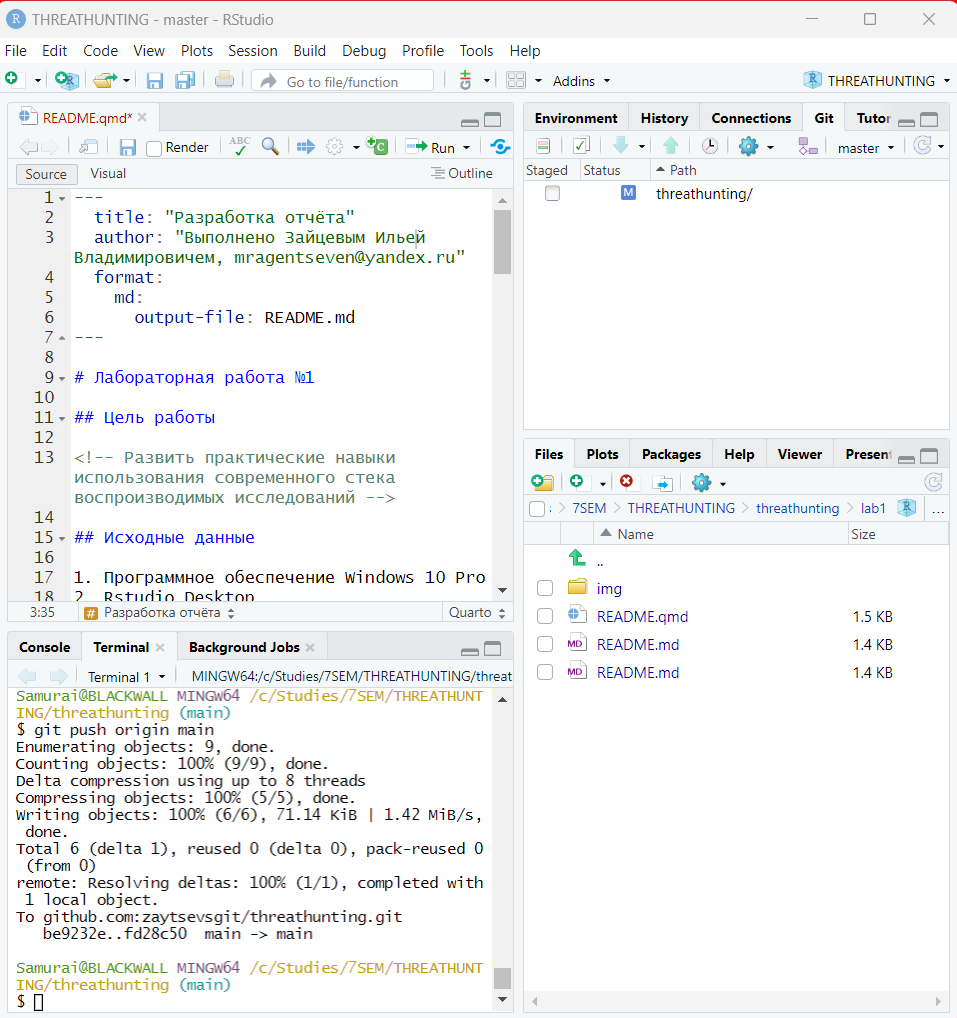
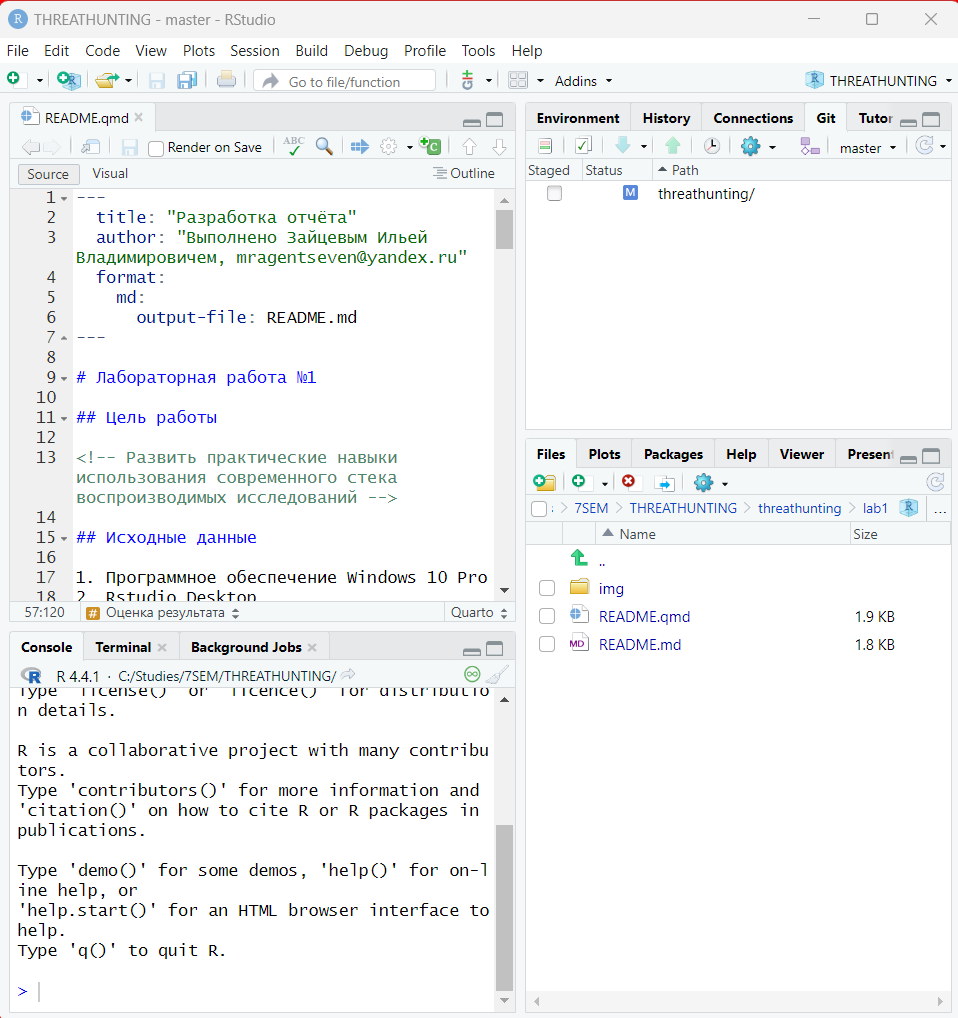
fifth

diff --git a/lab1/README.md b/lab1/README.md
@@ -1,5 +1,5 @@
 # Разработка отчёта
-Выполнено Зайцевым Ильёй Владимировичем, mragentseven@yandex.ru
+Выполнено Зайцевым Ильей Владимировичем, mragentseven@yandex.ru
 
 # Лабораторная работа №1
 
@@ -35,6 +35,23 @@
 1.  После установки R, Rstudio и Git создаем новый проект
 
 ![](img/4.png)
+
+1.  Создаем отчет
+
+![](img/5.png)
+
+1.  Рендерим его
+
+![](img/6.png)
+
+1.  И пушим на Github
+
+![](img/7.png)
+
+## Оценка результата
+
+В результате работы было скачано всё необходимое ПО, создан репозиторий
+на Github и отчет, который был загружен на него
 
 ## Вывод
 
